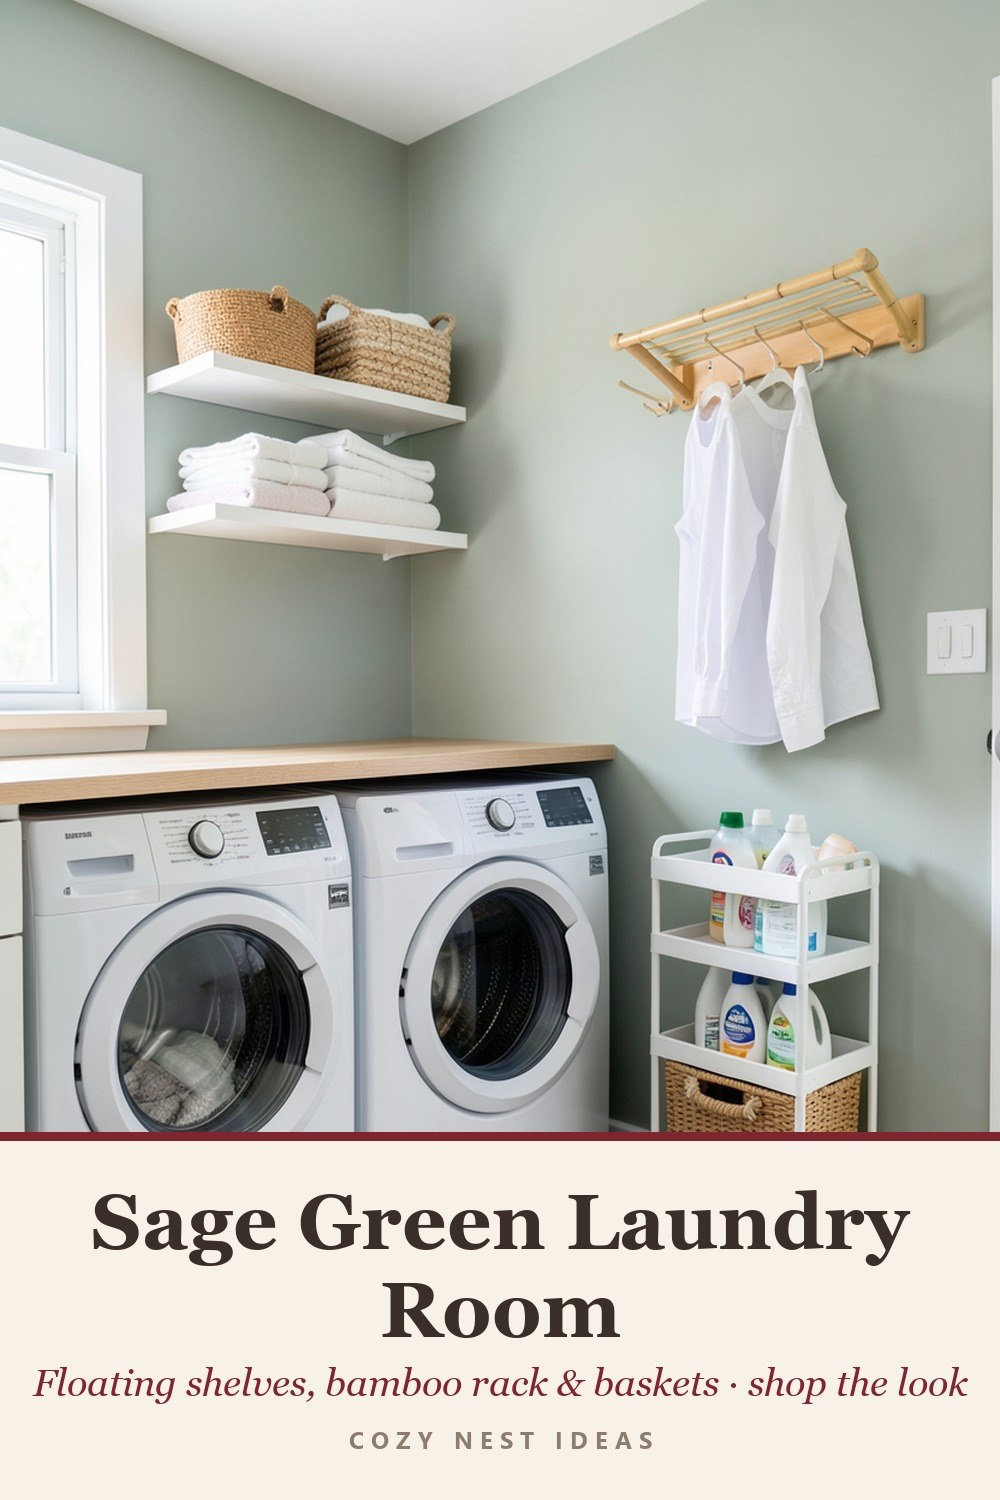
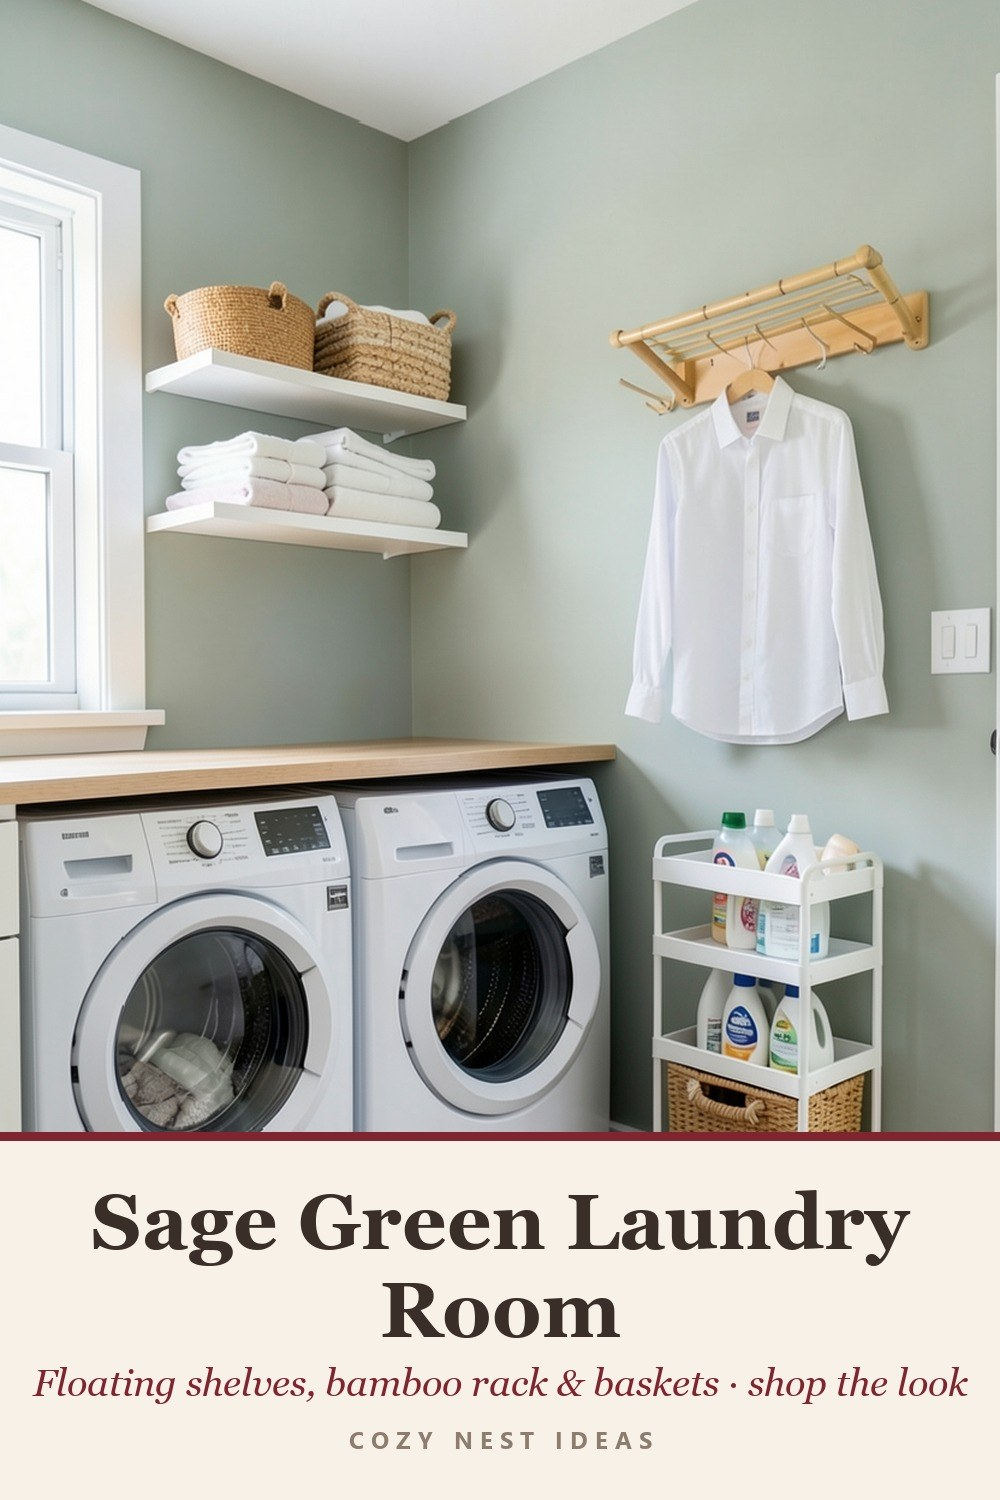
Laundry room: single shirt on the rack

diff --git a/index.html b/index.html
@@ -3,7 +3,7 @@
 <meta name="p:domain_verify" content="4409502b235040ad3e69c63925a18982"/>
 <title>Cozy Nest Ideas | Cozy Nest Ideas</title>
 <meta name="description" content="Cozy home and seasonal decor ideas with shop-the-look lists.">
-<link rel="stylesheet" href="style.css?v=1793523765"></head><body><div class="wrap">
+<link rel="stylesheet" href="style.css?v=1793527064"></head><body><div class="wrap">
 <header><a href="index.html">C O Z Y &nbsp; N E S T &nbsp; I D E A S</a></header>
 <h1>Cozy home ideas</h1><p class="intro">Cozy, seasonal room ideas, each with the pieces to shop the look.</p><div class="grid"><a class="card" href="cozy-winter-bedroom/index.html"><img src="cozy-winter-bedroom/room.jpg" alt="Cozy Winter Bedroom Ideas" loading="lazy"><span>Cozy Winter Bedroom Ideas</span></a><a class="card" href="christmas-living-room/index.html"><img src="christmas-living-room/room.jpg" alt="Cozy Christmas Living Room Ideas" loading="lazy"><span>Cozy Christmas Living Room Ideas</span></a><a class="card" href="safari-nursery/index.html"><img src="safari-nursery/room.jpg" alt="Neutral Safari Nursery Ideas" loading="lazy"><span>Neutral Safari Nursery Ideas</span></a><a class="card" href="christmas-mantel/index.html"><img src="christmas-mantel/room.jpg" alt="Cozy Christmas Mantel Ideas" loading="lazy"><span>Cozy Christmas Mantel Ideas</span></a><a class="card" href="thanksgiving-table/index.html"><img src="thanksgiving-table/room.jpg" alt="Cozy Thanksgiving Table Ideas" loading="lazy"><span>Cozy Thanksgiving Table Ideas</span></a><a class="card" href="boho-nursery/index.html"><img src="boho-nursery/room.jpg" alt="Boho Baby Girl Nursery Ideas" loading="lazy"><span>Boho Baby Girl Nursery Ideas</span></a><a class="card" href="fall-reading-nook/index.html"><img src="fall-reading-nook/room.jpg" alt="Cozy Fall Reading Nook Ideas" loading="lazy"><span>Cozy Fall Reading Nook Ideas</span></a><a class="card" href="christmas-entryway/index.html"><img src="christmas-entryway/room.jpg" alt="Scandinavian Christmas Entryway Ideas" loading="lazy"><span>Scandinavian Christmas Entryway Ideas</span></a><a class="card" href="coffee-bar-ideas/index.html"><img src="coffee-bar-ideas/room.jpg" alt="Cozy Coffee Bar Ideas for Home" loading="lazy"><span>Cozy Coffee Bar Ideas for Home</span></a><a class="card" href="spa-bathroom-ideas/index.html"><img src="spa-bathroom-ideas/room.jpg" alt="Spa Bathroom Ideas on a Budget" loading="lazy"><span>Spa Bathroom Ideas on a Budget</span></a><a class="card" href="home-office-nook/index.html"><img src="home-office-nook/room.jpg" alt="Cozy Home Office Nook Ideas" loading="lazy"><span>Cozy Home Office Nook Ideas</span></a><a class="card" href="christmas-dinner-table/index.html"><img src="christmas-dinner-table/room.jpg" alt="Cozy Christmas Dinner Table Ideas" loading="lazy"><span>Cozy Christmas Dinner Table Ideas</span></a><a class="card" href="sage-laundry-room/index.html"><img src="sage-laundry-room/room.jpg" alt="Sage Green Laundry Room Ideas" loading="lazy"><span>Sage Green Laundry Room Ideas</span></a><a class="card" href="indoor-plant-corner/index.html"><img src="indoor-plant-corner/room.jpg" alt="Sunny Indoor Plant Corner Ideas" loading="lazy"><span>Sunny Indoor Plant Corner Ideas</span></a></div>
 <footer>As an Amazon Associate I earn from qualifying purchases. Links on this page are affiliate links.<br>&copy; Cozy Nest Ideas. Room images are AI-generated inspiration; products are similar picks, not exact matches.</footer>

diff --git a/christmas-mantel/index.html b/christmas-mantel/index.html
@@ -3,7 +3,7 @@
 <meta name="p:domain_verify" content="4409502b235040ad3e69c63925a18982"/>
 <title>Cozy Christmas Mantel Ideas | Cozy Nest Ideas</title>
 <meta name="description" content="A classic, glowing Christmas mantel: a lush pine garland with pine cones, a lit berry wreath, brass candlesticks with fluted taper candles, sage pillar candles, a tiny lit wooden village and chunky knit stockings. Here are the pieces to recreate it.">
-<link rel="stylesheet" href="../style.css?v=1793523765"></head><body><div class="wrap">
+<link rel="stylesheet" href="../style.css?v=1793527064"></head><body><div class="wrap">
 <header><a href="../index.html">C O Z Y &nbsp; N E S T &nbsp; I D E A S</a></header>
 <div class="disc">As an Amazon Associate I earn from qualifying purchases. Links on this page are affiliate links.</div>
 <h1>Cozy Christmas Mantel Ideas</h1><p class="intro">A classic, glowing Christmas mantel: a lush pine garland with pine cones, a lit berry wreath, brass candlesticks with fluted taper candles, sage pillar candles, a tiny lit wooden village and chunky knit stockings. Here are the pieces to recreate it.</p>

diff --git a/thanksgiving-table/index.html b/thanksgiving-table/index.html
@@ -3,7 +3,7 @@
 <meta name="p:domain_verify" content="4409502b235040ad3e69c63925a18982"/>
 <title>Cozy Thanksgiving Table Ideas | Cozy Nest Ideas</title>
 <meta name="description" content="A warm, candlelit Thanksgiving table: a soft taupe linen tablecloth, a pine and eucalyptus runner dotted with cream and orange pumpkins, tall brown taper candles in brass and glowing amber votives. Here are the pieces to set it.">
-<link rel="stylesheet" href="../style.css?v=1793523765"></head><body><div class="wrap">
+<link rel="stylesheet" href="../style.css?v=1793527064"></head><body><div class="wrap">
 <header><a href="../index.html">C O Z Y &nbsp; N E S T &nbsp; I D E A S</a></header>
 <div class="disc">As an Amazon Associate I earn from qualifying purchases. Links on this page are affiliate links.</div>
 <h1>Cozy Thanksgiving Table Ideas</h1><p class="intro">A warm, candlelit Thanksgiving table: a soft taupe linen tablecloth, a pine and eucalyptus runner dotted with cream and orange pumpkins, tall brown taper candles in brass and glowing amber votives. Here are the pieces to set it.</p>

diff --git a/boho-nursery/index.html b/boho-nursery/index.html
@@ -3,7 +3,7 @@
 <meta name="p:domain_verify" content="4409502b235040ad3e69c63925a18982"/>
 <title>Boho Baby Girl Nursery Ideas | Cozy Nest Ideas</title>
 <meta name="description" content="A calm, airy boho nursery: a natural oak crib, soft floral sheets in pink and beige, a dusty rose macrame hanging, a wood bead garland, a faux olive tree and a fluffy tassel rug. Here are the pieces to recreate it.">
-<link rel="stylesheet" href="../style.css?v=1793523765"></head><body><div class="wrap">
+<link rel="stylesheet" href="../style.css?v=1793527064"></head><body><div class="wrap">
 <header><a href="../index.html">C O Z Y &nbsp; N E S T &nbsp; I D E A S</a></header>
 <div class="disc">As an Amazon Associate I earn from qualifying purchases. Links on this page are affiliate links.</div>
 <h1>Boho Baby Girl Nursery Ideas</h1><p class="intro">A calm, airy boho nursery: a natural oak crib, soft floral sheets in pink and beige, a dusty rose macrame hanging, a wood bead garland, a faux olive tree and a fluffy tassel rug. Here are the pieces to recreate it.</p>

diff --git a/cozy-winter-bedroom/index.html b/cozy-winter-bedroom/index.html
@@ -3,7 +3,7 @@
 <meta name="p:domain_verify" content="4409502b235040ad3e69c63925a18982"/>
 <title>Cozy Winter Bedroom Ideas | Cozy Nest Ideas</title>
 <meta name="description" content="A soft, warm bedroom for long winter nights: a cloud-like white comforter, deep burgundy velvet, a plush grey sherpa throw and the glow of fairy lights and flickering candles. Here are the pieces to recreate the look.">
-<link rel="stylesheet" href="../style.css?v=1793523765"></head><body><div class="wrap">
+<link rel="stylesheet" href="../style.css?v=1793527064"></head><body><div class="wrap">
 <header><a href="../index.html">C O Z Y &nbsp; N E S T &nbsp; I D E A S</a></header>
 <div class="disc">As an Amazon Associate I earn from qualifying purchases. Links on this page are affiliate links.</div>
 <h1>Cozy Winter Bedroom Ideas</h1><p class="intro">A soft, warm bedroom for long winter nights: a cloud-like white comforter, deep burgundy velvet, a plush grey sherpa throw and the glow of fairy lights and flickering candles. Here are the pieces to recreate the look.</p>

diff --git a/fall-reading-nook/index.html b/fall-reading-nook/index.html
@@ -3,7 +3,7 @@
 <meta name="p:domain_verify" content="4409502b235040ad3e69c63925a18982"/>
 <title>Cozy Fall Reading Nook Ideas | Cozy Nest Ideas</title>
 <meta name="description" content="A snug reading corner for autumn: a cloud-like sherpa barrel chair, a chunky knit throw, a chocolate corduroy pillow, a warm arc lamp, rustic floating shelves and a pumpkin candle burning on the side table.">
-<link rel="stylesheet" href="../style.css?v=1793523765"></head><body><div class="wrap">
+<link rel="stylesheet" href="../style.css?v=1793527064"></head><body><div class="wrap">
 <header><a href="../index.html">C O Z Y &nbsp; N E S T &nbsp; I D E A S</a></header>
 <div class="disc">As an Amazon Associate I earn from qualifying purchases. Links on this page are affiliate links.</div>
 <h1>Cozy Fall Reading Nook Ideas</h1><p class="intro">A snug reading corner for autumn: a cloud-like sherpa barrel chair, a chunky knit throw, a chocolate corduroy pillow, a warm arc lamp, rustic floating shelves and a pumpkin candle burning on the side table.</p>

diff --git a/christmas-living-room/index.html b/christmas-living-room/index.html
@@ -3,7 +3,7 @@
 <meta name="p:domain_verify" content="4409502b235040ad3e69c63925a18982"/>
 <title>Cozy Christmas Living Room Ideas | Cozy Nest Ideas</title>
 <meta name="description" content="A warm, classic Christmas corner: a glowing pre-lit tree in champagne ornaments, cable-knit stockings on a garland-draped mantel, flickering candles and soft velvet and sherpa layers on the sofa.">
-<link rel="stylesheet" href="../style.css?v=1793523765"></head><body><div class="wrap">
+<link rel="stylesheet" href="../style.css?v=1793527064"></head><body><div class="wrap">
 <header><a href="../index.html">C O Z Y &nbsp; N E S T &nbsp; I D E A S</a></header>
 <div class="disc">As an Amazon Associate I earn from qualifying purchases. Links on this page are affiliate links.</div>
 <h1>Cozy Christmas Living Room Ideas</h1><p class="intro">A warm, classic Christmas corner: a glowing pre-lit tree in champagne ornaments, cable-knit stockings on a garland-draped mantel, flickering candles and soft velvet and sherpa layers on the sofa.</p>

diff --git a/christmas-entryway/index.html b/christmas-entryway/index.html
@@ -3,7 +3,7 @@
 <meta name="p:domain_verify" content="4409502b235040ad3e69c63925a18982"/>
 <title>Scandinavian Christmas Entryway Ideas | Cozy Nest Ideas</title>
 <meta name="description" content="A bright, simple Christmas welcome: a slim snow-flocked tree, a eucalyptus wreath on a round mirror, a bamboo bench with a tartan pillow, glowing lanterns and a cozy woven blanket basket.">
-<link rel="stylesheet" href="../style.css?v=1793523765"></head><body><div class="wrap">
+<link rel="stylesheet" href="../style.css?v=1793527064"></head><body><div class="wrap">
 <header><a href="../index.html">C O Z Y &nbsp; N E S T &nbsp; I D E A S</a></header>
 <div class="disc">As an Amazon Associate I earn from qualifying purchases. Links on this page are affiliate links.</div>
 <h1>Scandinavian Christmas Entryway Ideas</h1><p class="intro">A bright, simple Christmas welcome: a slim snow-flocked tree, a eucalyptus wreath on a round mirror, a bamboo bench with a tartan pillow, glowing lanterns and a cozy woven blanket basket.</p>

diff --git a/safari-nursery/index.html b/safari-nursery/index.html
@@ -3,7 +3,7 @@
 <meta name="p:domain_verify" content="4409502b235040ad3e69c63925a18982"/>
 <title>Neutral Safari Nursery Ideas | Cozy Nest Ideas</title>
 <meta name="description" content="A calm, gender-neutral safari nursery: a crisp white crib under a playful jungle mobile, a cozy grey glider for night feeds, book ledges at the ready and woven baskets that keep everything tidy.">
-<link rel="stylesheet" href="../style.css?v=1793523765"></head><body><div class="wrap">
+<link rel="stylesheet" href="../style.css?v=1793527064"></head><body><div class="wrap">
 <header><a href="../index.html">C O Z Y &nbsp; N E S T &nbsp; I D E A S</a></header>
 <div class="disc">As an Amazon Associate I earn from qualifying purchases. Links on this page are affiliate links.</div>
 <h1>Neutral Safari Nursery Ideas</h1><p class="intro">A calm, gender-neutral safari nursery: a crisp white crib under a playful jungle mobile, a cozy grey glider for night feeds, book ledges at the ready and woven baskets that keep everything tidy.</p>

diff --git a/christmas-dinner-table/index.html b/christmas-dinner-table/index.html
@@ -3,7 +3,7 @@
 <meta name="p:domain_verify" content="4409502b235040ad3e69c63925a18982"/>
 <title>Cozy Christmas Dinner Table Ideas | Cozy Nest Ideas</title>
 <meta name="description" content="A warm, candlelit Christmas table: a tartan runner, burgundy tapers in tall gold holders, glowing votives, eucalyptus and simple white plates with cream napkins.">
-<link rel="stylesheet" href="../style.css?v=1793523765"></head><body><div class="wrap">
+<link rel="stylesheet" href="../style.css?v=1793527064"></head><body><div class="wrap">
 <header><a href="../index.html">C O Z Y &nbsp; N E S T &nbsp; I D E A S</a></header>
 <div class="disc">As an Amazon Associate I earn from qualifying purchases. Links on this page are affiliate links.</div>
 <h1>Cozy Christmas Dinner Table Ideas</h1><p class="intro">A warm, candlelit Christmas table: a tartan runner, burgundy tapers in tall gold holders, glowing votives, eucalyptus and simple white plates with cream napkins.</p>

diff --git a/home-office-nook/index.html b/home-office-nook/index.html
@@ -3,7 +3,7 @@
 <meta name="p:domain_verify" content="4409502b235040ad3e69c63925a18982"/>
 <title>Cozy Home Office Nook Ideas | Cozy Nest Ideas</title>
 <meta name="description" content="A calm little workspace for a bedroom or living room corner: a warm oak desk, a fluffy teddy chair, a swing-arm lamp, a linen pinboard and a few tidy organizers.">
-<link rel="stylesheet" href="../style.css?v=1793523765"></head><body><div class="wrap">
+<link rel="stylesheet" href="../style.css?v=1793527064"></head><body><div class="wrap">
 <header><a href="../index.html">C O Z Y &nbsp; N E S T &nbsp; I D E A S</a></header>
 <div class="disc">As an Amazon Associate I earn from qualifying purchases. Links on this page are affiliate links.</div>
 <h1>Cozy Home Office Nook Ideas</h1><p class="intro">A calm little workspace for a bedroom or living room corner: a warm oak desk, a fluffy teddy chair, a swing-arm lamp, a linen pinboard and a few tidy organizers.</p>

diff --git a/indoor-plant-corner/index.html b/indoor-plant-corner/index.html
@@ -3,7 +3,7 @@
 <meta name="p:domain_verify" content="4409502b235040ad3e69c63925a18982"/>
 <title>Sunny Indoor Plant Corner Ideas | Cozy Nest Ideas</title>
 <meta name="description" content="Turn an empty corner into a little indoor garden: a ladder shelf of terracotta pots, a hanging macrame planter, a faux olive tree and a woven basket.">
-<link rel="stylesheet" href="../style.css?v=1793523765"></head><body><div class="wrap">
+<link rel="stylesheet" href="../style.css?v=1793527064"></head><body><div class="wrap">
 <header><a href="../index.html">C O Z Y &nbsp; N E S T &nbsp; I D E A S</a></header>
 <div class="disc">As an Amazon Associate I earn from qualifying purchases. Links on this page are affiliate links.</div>
 <h1>Sunny Indoor Plant Corner Ideas</h1><p class="intro">Turn an empty corner into a little indoor garden: a ladder shelf of terracotta pots, a hanging macrame planter, a faux olive tree and a woven basket.</p>
